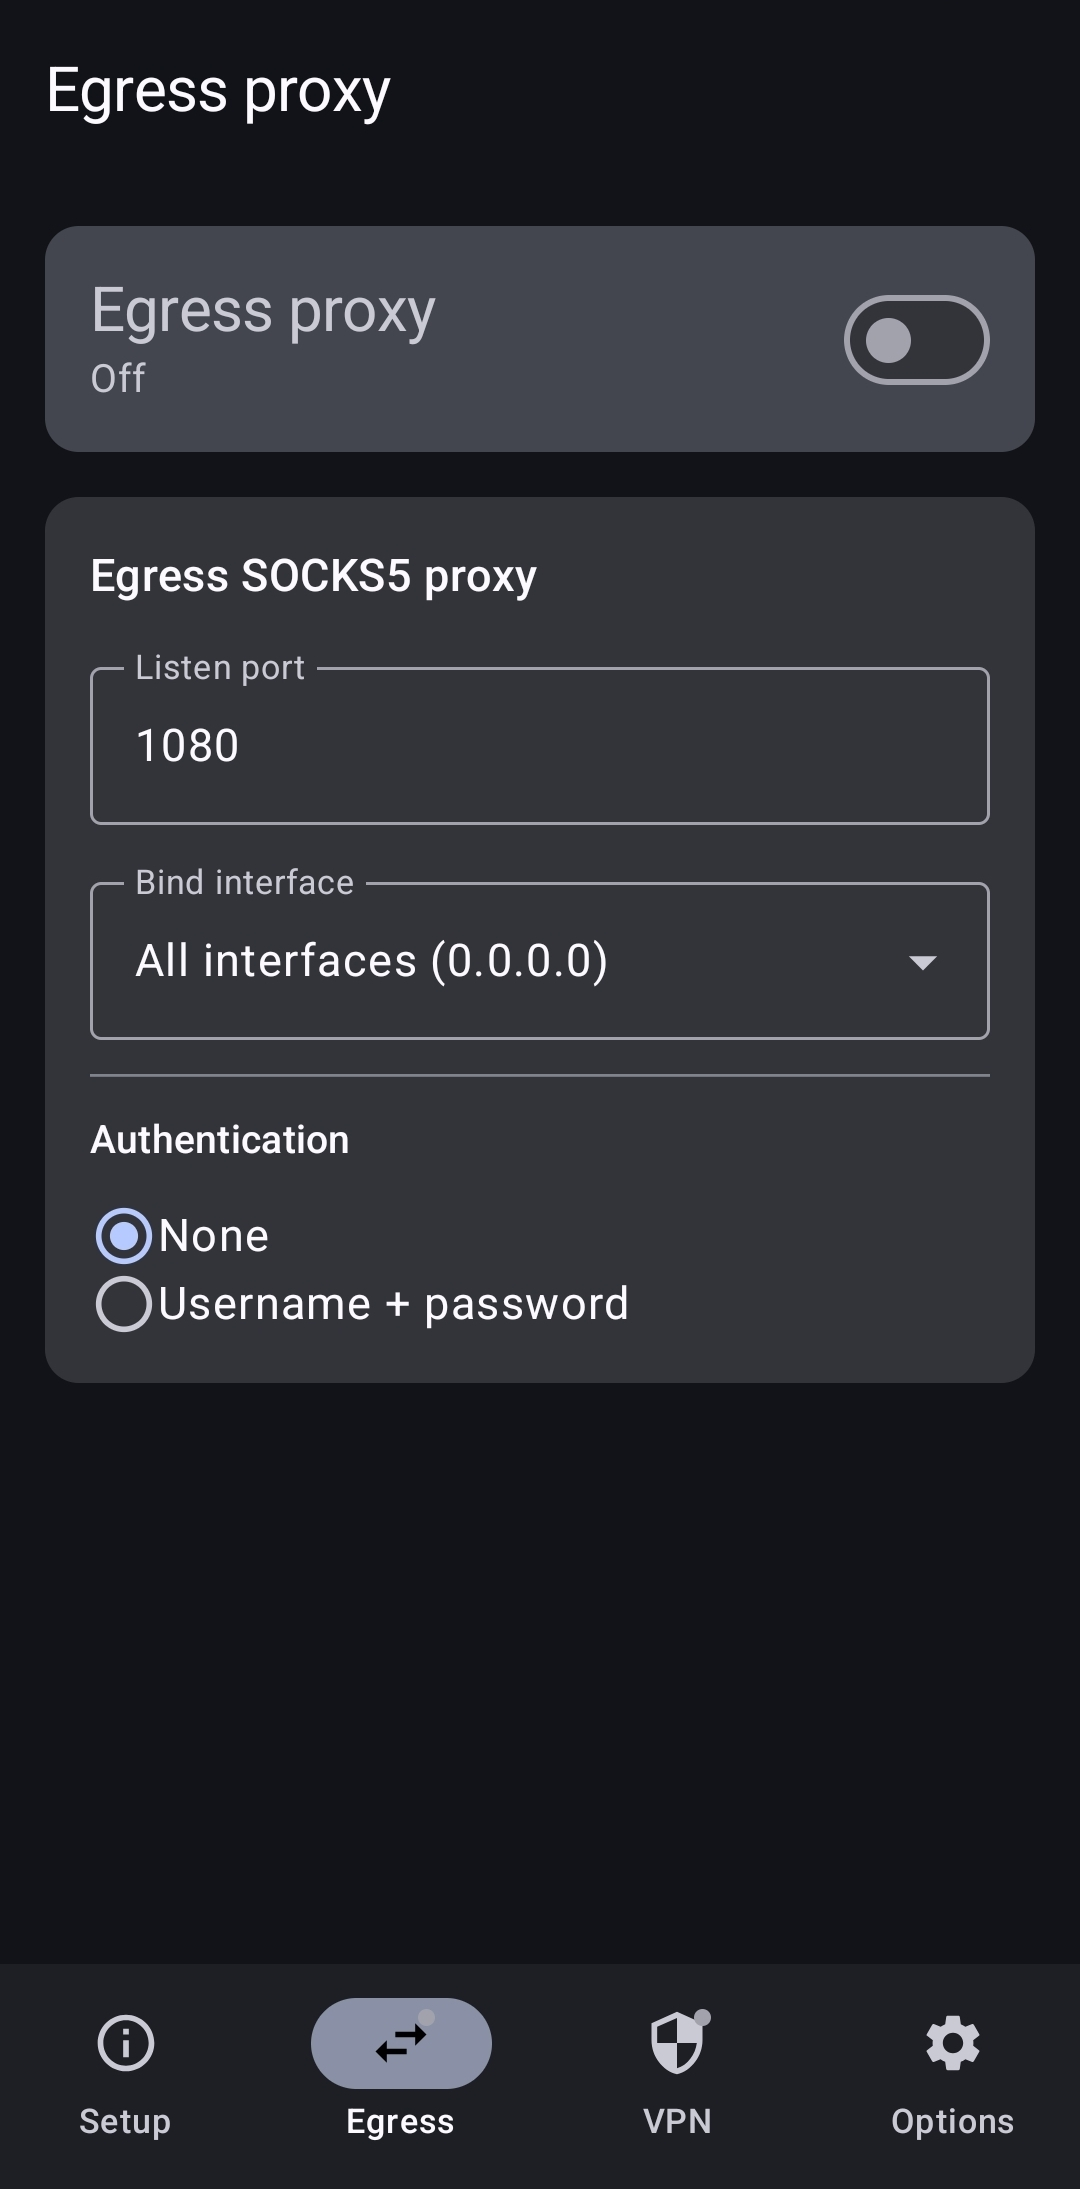
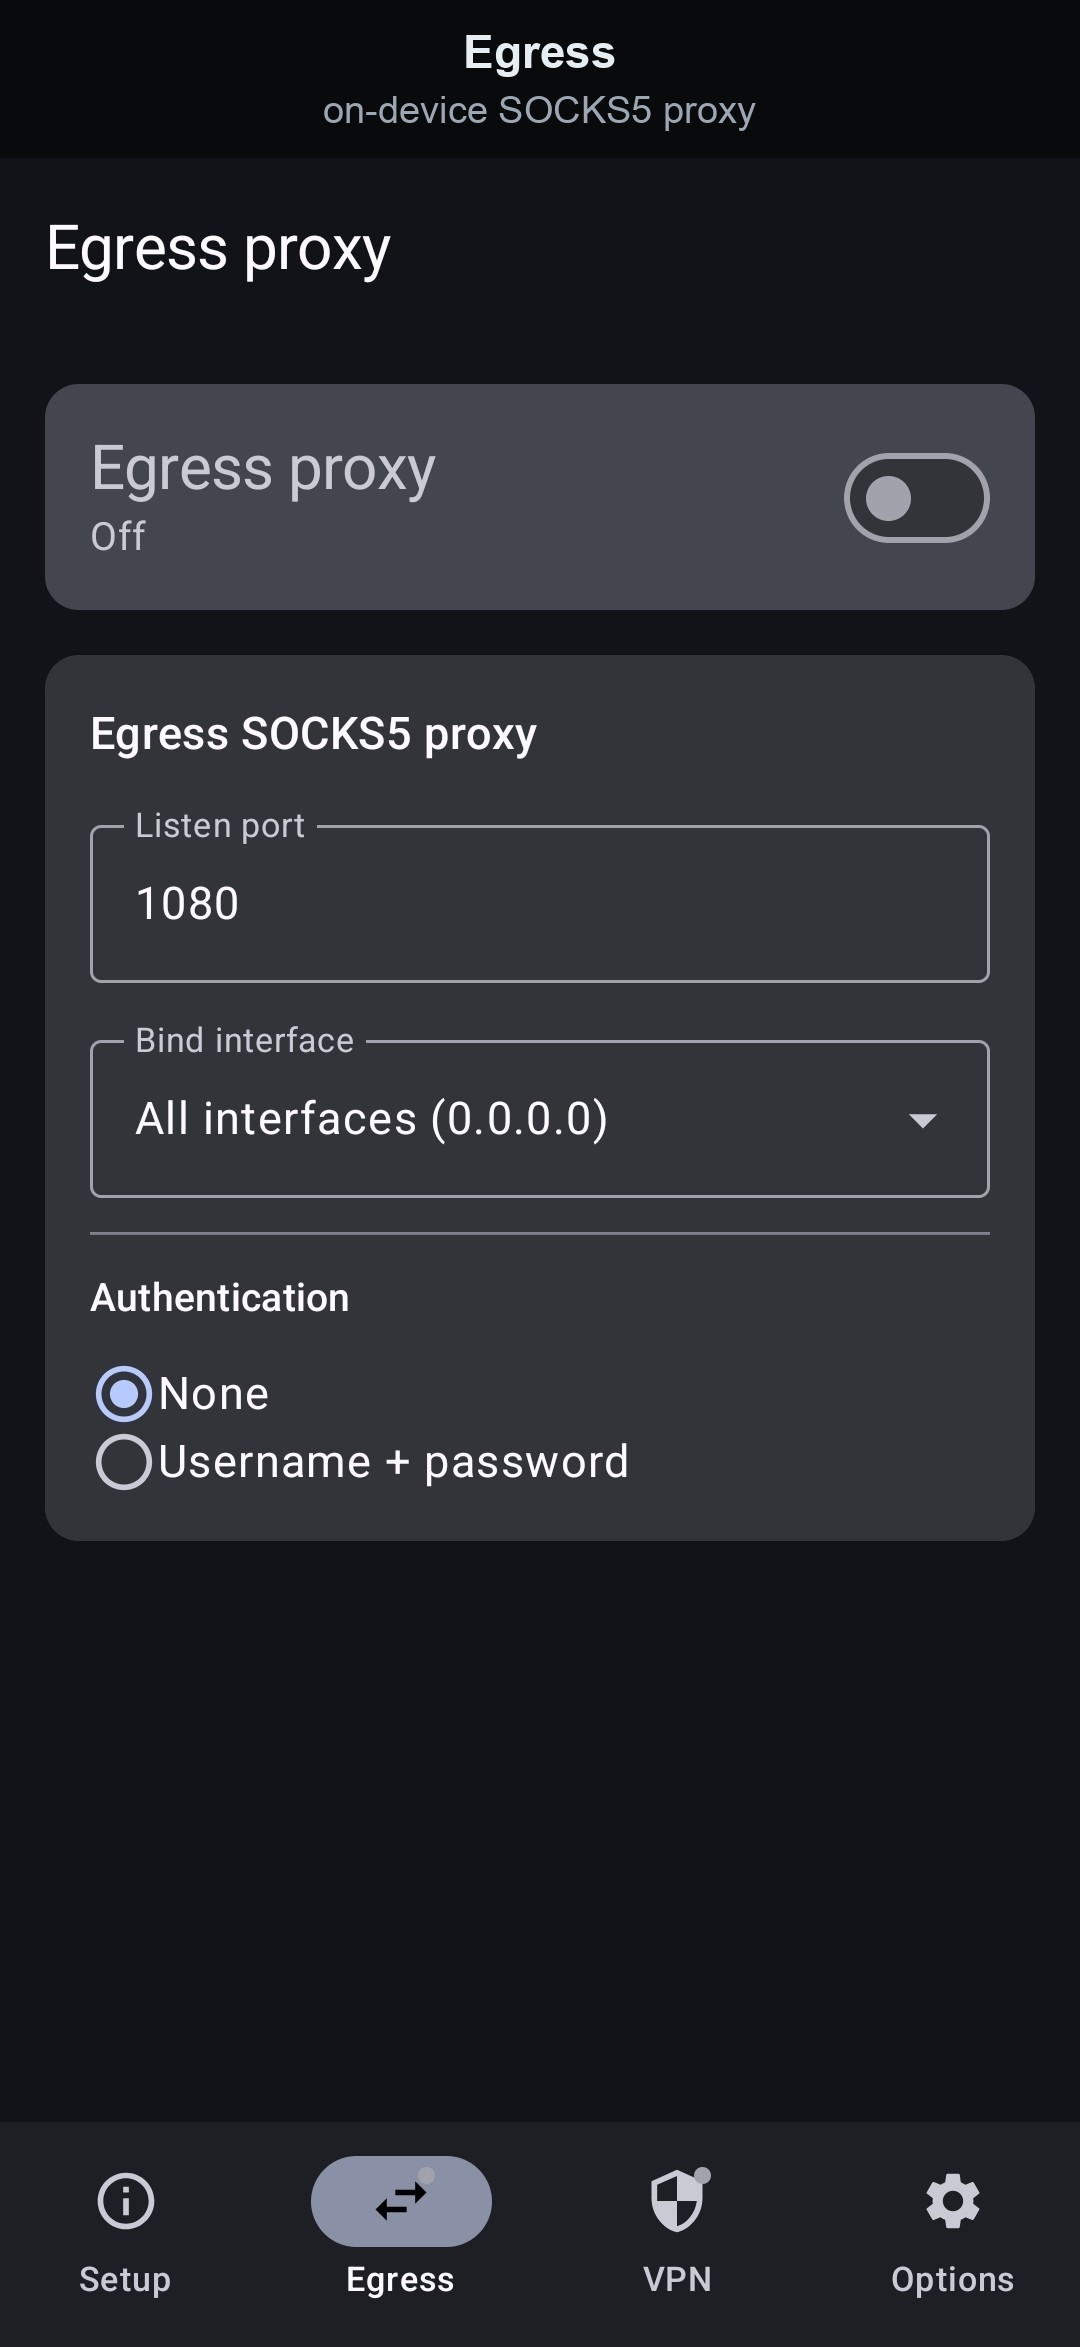
better readme

diff --git a/docs/screenshots/generate_captions.py b/docs/screenshots/generate_captions.py
@@ -1,0 +1,102 @@
+#!/usr/bin/env python3
+"""Generate captioned screenshots for the README.
+
+Each image in ``raw/`` listed in ``CAPTIONS`` gets a title band rendered on
+top (bold title + muted subtitle) and is written next to this script, where
+the README references it. The band colour matches the app's dark UI so it
+reads as a titled card. Editing a caption here and re-running regenerates the
+images — the originals in ``raw/`` are never touched.
+
+Usage:
+    python3 -m venv .venv && .venv/bin/pip install Pillow
+    .venv/bin/python generate_captions.py
+"""
+
+from pathlib import Path
+
+from PIL import Image, ImageDraw, ImageFont
+
+HERE = Path(__file__).resolve().parent
+RAW = HERE / "raw"
+
+# filename (in raw/) -> (bold title, muted subtitle)
+CAPTIONS = {
+    "setup.jpg": ("Setup", "status dashboard & how-to"),
+    "egress.jpg": ("Egress", "on-device SOCKS5 proxy"),
+    "vpn.jpg": ("VPN", "capture via upstream proxy"),
+    "options.jpg": ("Options", "boot & battery settings"),
+}
+
+# Band styling (tuned for ~1080px-wide phone screenshots).
+BG = "#080a0c"
+TITLE_COLOR = "#e6edf3"
+SUB_COLOR = "#9da7b3"
+TITLE_SIZE = 46
+SUB_SIZE = 38
+PAD_Y = 26
+GAP = 10
+JPEG_QUALITY = 90
+
+# Font lookup: macOS first, then common Linux paths.
+TITLE_FONT_CANDIDATES = [
+    "/System/Library/Fonts/Supplemental/Arial Bold.ttf",
+    "/usr/share/fonts/truetype/dejavu/DejaVuSans-Bold.ttf",
+]
+SUB_FONT_CANDIDATES = [
+    "/System/Library/Fonts/Supplemental/Arial.ttf",
+    "/usr/share/fonts/truetype/dejavu/DejaVuSans.ttf",
+]
+
+
+def load_font(candidates, size):
+    for path in candidates:
+        if Path(path).exists():
+            return ImageFont.truetype(path, size)
+    raise SystemExit(
+        "No usable TTF font found. Tried:\n  " + "\n  ".join(candidates)
+    )
+
+
+def line_height(font):
+    # ascent + descent is fixed for a given font + size, independent of which
+    # glyphs a particular string uses, so every band ends up the same height.
+    ascent, descent = font.getmetrics()
+    return ascent + descent
+
+
+def draw_centered(draw, text, font, color, width, top):
+    # anchor="ma" -> horizontally centred, vertically aligned to the ascender,
+    # so the text top sits exactly at `top` regardless of descenders.
+    draw.text((width / 2, top), text, font=font, fill=color, anchor="ma")
+
+
+def caption(src: Path, title: str, subtitle: str, dest: Path):
+    img = Image.open(src).convert("RGB")
+    width, height = img.size
+
+    title_font = load_font(TITLE_FONT_CANDIDATES, TITLE_SIZE)
+    sub_font = load_font(SUB_FONT_CANDIDATES, SUB_SIZE)
+
+    title_h = line_height(title_font)
+    sub_h = line_height(sub_font)
+    band_h = PAD_Y + title_h + GAP + sub_h + PAD_Y
+
+    canvas = Image.new("RGB", (width, band_h + height), BG)
+    draw = ImageDraw.Draw(canvas)
+    draw_centered(draw, title, title_font, TITLE_COLOR, width, PAD_Y)
+    draw_centered(draw, subtitle, sub_font, SUB_COLOR, width, PAD_Y + title_h + GAP)
+    canvas.paste(img, (0, band_h))
+    canvas.save(dest, quality=JPEG_QUALITY)
+    print(f"wrote {dest.name} ({canvas.size[0]}x{canvas.size[1]})")
+
+
+def main():
+    for name, (title, subtitle) in CAPTIONS.items():
+        src = RAW / name
+        if not src.exists():
+            raise SystemExit(f"missing source: {src}")
+        caption(src, title, subtitle, HERE / name)
+
+
+if __name__ == "__main__":
+    main()

diff --git a/README.md b/README.md
@@ -84,8 +84,8 @@ $env:JAVA_HOME="C:\Program Files\Android\Android Studio\jbr"
 
 The APK is written to:
 
-- Debug:   `app/build/outputs/apk/debug/app-debug.apk`
-- Release: `app/build/outputs/apk/release/app-release.apk`
+- Debug:   `app/build/outputs/apk/debug/pivot-debug.apk`
+- Release: `app/build/outputs/apk/release/pivot-release.apk`
 
 > A release build is signed with your own keystore if you provide one (see
 > [DEVELOPMENT.md](DEVELOPMENT.md)); otherwise it falls back to the debug key so the
@@ -95,16 +95,28 @@ The APK is written to:
 
 ## Install
 
-### With adb (recommended)
+Grab the latest **`pivot-release.apk`** from the
+[Releases page](https://github.com/dmatscheko/pivot-proxy-android/releases/latest)
+and install it by opening the file on the device ("Install unknown apps"), or via adb:
 
 ```bash
-adb install -r app/build/outputs/apk/debug/app-debug.apk
+adb install -r pivot-release.apk
 ```
 
-### Directly on the device
+Prefer to build it yourself? A debug build can be built and installed in one step:
 
-Copy the APK to the device and open it. You may need to allow installing apps from
-your file manager / browser ("Install unknown apps") the first time.
+```sh
+./gradlew installDebug
+```
+
+To install with adb instead, build the APK first, then install it:
+
+```bash
+./gradlew assembleDebug
+adb install -r app/build/outputs/apk/debug/pivot-debug.apk
+```
+
+See [DEVELOPMENT.md](DEVELOPMENT.md) for the toolchain and architecture.
 
 This app is **sideloaded** — it is not on the Play Store.
 
@@ -126,9 +138,17 @@ The Egress and VPN nav icons carry a small status dot: **green = running**,
 
 ### Screenshots
 
-| Setup | Egress | VPN | Options |
-| --- | --- | --- | --- |
-| <a href="docs/screenshots/setup.jpg"><img src="docs/screenshots/setup.jpg" alt="Setup tab screenshot" width="120"></a> | <a href="docs/screenshots/egress.jpg"><img src="docs/screenshots/egress.jpg" alt="Egress tab screenshot" width="120"></a> | <a href="docs/screenshots/vpn.jpg"><img src="docs/screenshots/vpn.jpg" alt="VPN tab screenshot" width="120"></a> | <a href="docs/screenshots/options.jpg"><img src="docs/screenshots/options.jpg" alt="Options tab screenshot" width="120"></a> |
+<p align="center">
+  <a href="docs/screenshots/raw/setup.jpg"><img src="docs/screenshots/setup.jpg" alt="Setup tab — status dashboard and how-to screenshot" width="38%" align="top"></a>
+  &nbsp;&nbsp;&nbsp;&nbsp;
+  <a href="docs/screenshots/raw/vpn.jpg"><img src="docs/screenshots/vpn.jpg" alt="VPN tab — capture via upstream proxy screenshot" width="38%" align="top"></a>
+</p>
+
+<p align="center">
+  <a href="docs/screenshots/raw/egress.jpg"><img src="docs/screenshots/egress.jpg" alt="Egress tab — on-device SOCKS5 proxy screenshot" width="38%" align="top"></a>
+  &nbsp;&nbsp;&nbsp;&nbsp;
+  <a href="docs/screenshots/raw/options.jpg"><img src="docs/screenshots/options.jpg" alt="Options tab — boot and battery settings screenshot" width="38%" align="top"></a>
+</p>
 
 ### Setting up the pivot
 
